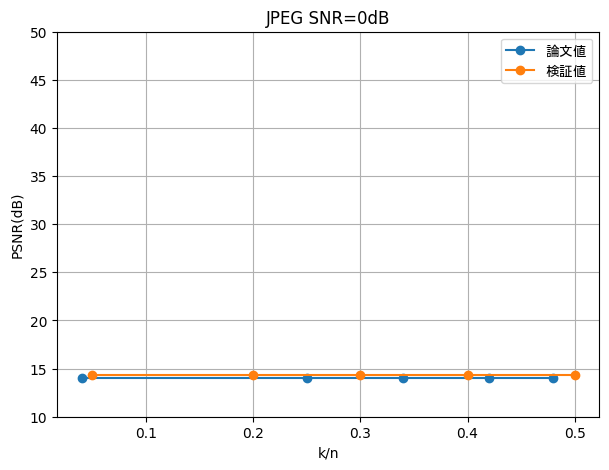
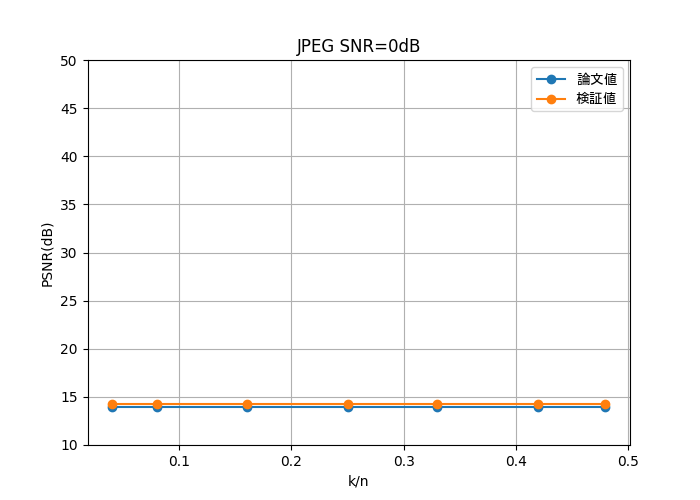
update

diff --git a/JPEG/JPEG2000_s.py b/JPEG/JPEG2000_s.py
@@ -35,14 +35,14 @@ org_img = org_img[:100]
 psnr_avg_list = []
 n = org_img[0].size
 k_n_list = [0.04, 0.08, 0.16, 0.25, 0.33, 0.42, 0.48]
-SNR_dB = 20
+SNR_dB = 10
 SNR = 10**(SNR_dB/10)
 C = np.log2(1+SNR)
 # quality = np.arange(0, 1001, 1)
 
 for k_n in k_n_list:
   R_max = k_n*C
-  data_size_max = n*R_max/8
+  data_size_max = n*R_max/8*1.8
   psnr = []
 
   for img in tqdm.tqdm(org_img):
@@ -61,12 +61,14 @@ for k_n in k_n_list:
             data_size_old = data_size_new
           break
       data_size_old = data_size_new
-    psnr.append(peak_signal_noise_ratio(img, jpeg, data_range=255))
+    p = peak_signal_noise_ratio(img, jpeg, data_range=255)
+    if p != float('inf'):
+      psnr.append(p)
 
   psnr_avg = np.mean(psnr)
   psnr_avg_list.append(psnr_avg)
 
-  print(f'k/n={k_n}, data_size={data_size_max}Bytes, PSNR={psnr_avg}')
+  print(f'k/n={k_n}, data_size={data_size_max}Bytes, PSNR={psnr_avg}, inf:{len(org_img)-len(psnr)}')
 
 # 結果表示
 k_n_list_c = [0.04, 0.08, 0.16, 0.25, 0.33, 0.42, 0.48]

diff --git a/JPEG/JPEG.py b/JPEG/JPEG.py
@@ -35,7 +35,7 @@ org_img = org_img[:100]
 psnr_avg_list = []
 n = org_img[0].size
 k_n_list = [0.04, 0.08, 0.16, 0.25, 0.33, 0.42, 0.48]
-SNR_dB = 20
+SNR_dB = 10
 SNR = 10**(SNR_dB/10)
 C = np.log2(1+SNR)
 quality = np.arange(0, 101, 1)

diff --git a/README.md b/README.md
@@ -7,7 +7,7 @@
   JPEG2000圧縮
 - JPEG2000_s.py
   JPEG2000.pyの高速処理版
-- DeepJSCC_auot.py
+- DeepJSCC_auto.py
   DeepJSCCの実行
 - DeepJSCC_visualization.py
   DeepJSCCで再構成した画像の可視化
@@ -38,3 +38,20 @@ OpenCVを用いて```quality```（0～100の範囲、値が小さいほど圧縮
 ![JPEG compression](fig/jpeg_compression.png)
 
 なお、すべての```quality```で$`S_{\rm comp}`$を満たさない場合は、JPEG圧縮不可能と考え、各色チャネルの全画素を平均して画像を再構成する。このときのPSNRは15dB弱くらいになる。
+
+### 参考
+- [メモリ上への一時ファイルの作り方](https://qiita.com/mimaburao/items/26e1463feb6397197232)
+- [CIFAR-10：物体カラー写真（乗り物や動物など）の画像データセット](https://atmarkit.itmedia.co.jp/ait/articles/2006/10/news021.html)
+- [openCVで読み込んだ画像をmatplotlibで表示する方法](https://qiita.com/YosukeHoshi/items/189c615187f41f2f4e27)
+- [PILを用いた画像圧縮(jpeg, jpeg2000)](https://jskangaroo.hatenablog.com/entry/2020/03/02/174023)
+- [cv2.imwrite](https://www.codevace.com/py-opencv-save-image/)
+- [OpenCVのimencodeとimdecodeでのbytesのやりとり](https://note.com/lizefield/n/nbd553366d55e)
+- [OpenCV imread mode 指定](https://qiita.com/yoya/items/b2fab73698d7aa35f5a7)
+- [JPEGのExif情報をとっかかりにバイナリデータと戯れる](https://beyondjapan.com/blog/2016/11/start-binary-reading-with-jpeg-exif/)
+- [Python で JPG ファイルから Exif 情報を削除する](https://note.com/junf/n/n553d4a9a99c3)
+- [JPEG2000詳細解説](https://www.cqpub.co.jp/hanbai/books/18/18721/18721_1syo.pdf)
+
+## DeepJSCC_auto.py
+
+### 参考
+- [DJSCC-for-Wireless-Image-Transmission](https://github.com/irdanish11/DJSCC-for-Wireless-Image-Transmission)
